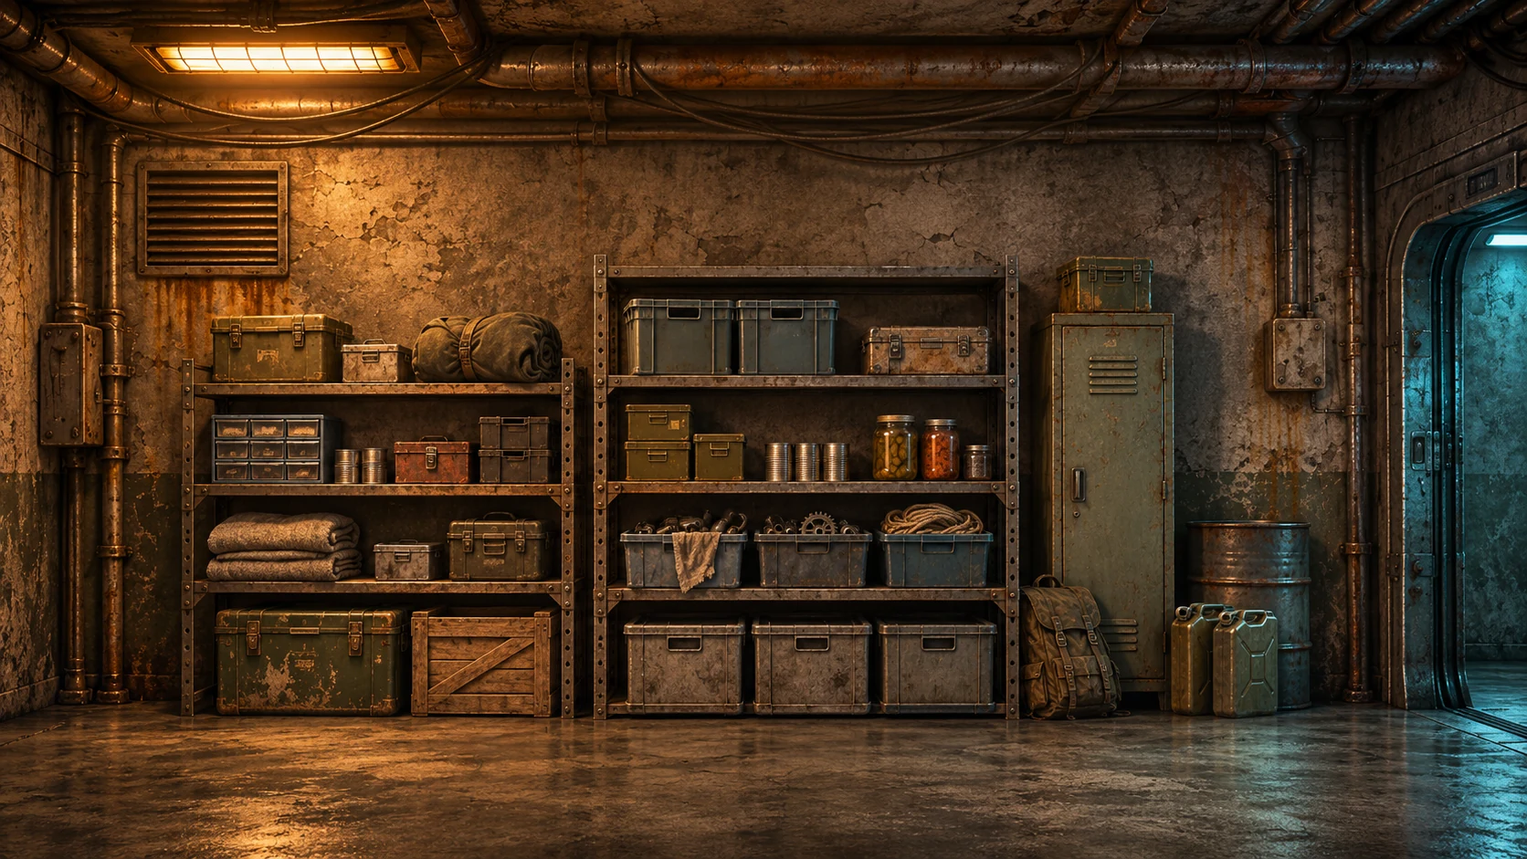
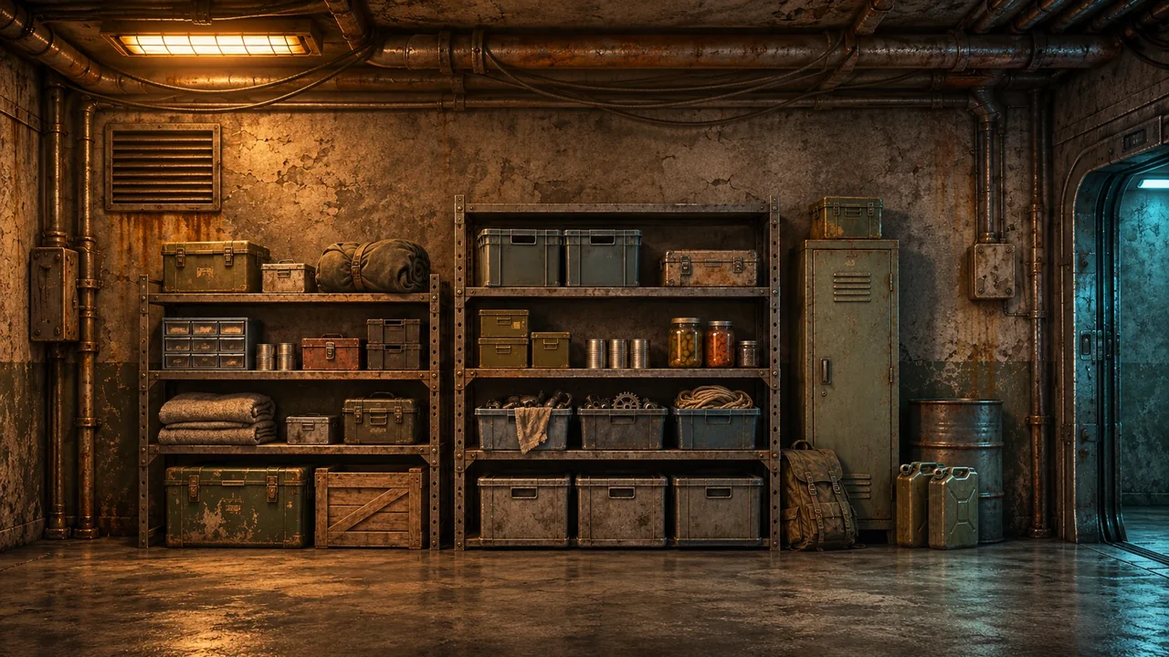
Add files via upload

diff --git a/js/game.js b/js/game.js
@@ -1,4 +1,4 @@
-const APP_VERSION='0.1.52';
+const APP_VERSION='0.1.53';
 
 (()=>{'use strict';const KEY='ashen-save-v010';const attrNames={str:'Siła',dex:'Zręczność',end:'Wytrzymałość',per:'Percepcja',int:'Inteligencja',cha:'Charyzma'};
 const rarities=[{name:'Zwykły',color:'#b8bfc3',weight:58,mult:1},{name:'Ulepszony',color:'#8ac78b',weight:25,mult:1.14},{name:'Rzadki',color:'#77afe5',weight:12,mult:1.32},{name:'Epicki',color:'#c391e4',weight:4,mult:1.58},{name:'Legendarny',color:'#f2bb65',weight:1,mult:1.95}];
@@ -136,7 +136,7 @@ if(!Number.isFinite(state.schematics)||state.schematics<0)state.schematics=0;
 if(typeof state.workshopTestGranted!=='boolean')state.workshopTestGranted=false;
 for(const inst of state.inventory){if(!Number.isInteger(inst.upgrade)||inst.upgrade<0||inst.upgrade>5)inst.upgrade=0;}
 // ASHEN 0.1.24: trwały rozwój modułów schronu, niezależny od dekoracji.
-function roomLevel(id){const n=state.rooms?.[id];return Number.isInteger(n)&&n>=1&&n<=3?n:1}
+function roomLevel(id){const n=state.rooms?.[id];return Number.isInteger(n)&&n>=1&&n<=5?n:1}
 if(!state.rooms||typeof state.rooms!=='object'||Array.isArray(state.rooms))state.rooms={};
 for(const id of ['bedroom','storage','workshop'])state.rooms[id]=roomLevel(id);
 // Testy Kryjówki: zapamiętujemy najwyższy kiedykolwiek opłacony etap.
@@ -144,18 +144,18 @@ for(const id of ['bedroom','storage','workshop'])state.rooms[id]=roomLevel(id);
 if(!state.roomUnlocked||typeof state.roomUnlocked!=='object'||Array.isArray(state.roomUnlocked))state.roomUnlocked={};
 for(const id of ['bedroom','storage','workshop']){
  const purchased=Number(state.roomUnlocked[id]);
- state.roomUnlocked[id]=Math.max(roomLevel(id),Number.isInteger(purchased)?Math.min(3,Math.max(1,purchased)):1);
+ state.roomUnlocked[id]=Math.max(roomLevel(id),Number.isInteger(purchased)?Math.min(5,Math.max(1,purchased)):1);
 }
 
 const ROOM_COSTS={
- bedroom:[null,{level:5,credits:350,scrap:120,mat:'tkanina',qty:35},{level:15,credits:1400,scrap:400,mat:'skora',qty:95}],
- storage:[null,{level:5,credits:300,scrap:160,mat:'czesci',qty:35},{level:15,credits:1350,scrap:460,mat:'tworzywo',qty:100}],
- workshop:[null,{level:8,credits:450,scrap:190,mat:'czesci',qty:45},{level:18,credits:1800,scrap:550,mat:'elektronika',qty:100}]
+ bedroom:[null,{level:5,credits:350,scrap:120,mat:'tkanina',qty:35},{level:15,credits:1400,scrap:400,mat:'skora',qty:95},{level:25,credits:3200,scrap:900,mat:'tkanina',qty:180},{level:35,credits:6500,scrap:1800,mat:'skora',qty:300}],
+ storage:[null,{level:5,credits:300,scrap:160,mat:'czesci',qty:35},{level:15,credits:1350,scrap:460,mat:'tworzywo',qty:100},{level:25,credits:3300,scrap:940,mat:'czesci',qty:180},{level:35,credits:7000,scrap:1900,mat:'tworzywo',qty:320}],
+ workshop:[null,{level:8,credits:450,scrap:190,mat:'czesci',qty:45},{level:18,credits:1800,scrap:550,mat:'elektronika',qty:100},{level:28,credits:4400,scrap:1100,mat:'czesci',qty:200},{level:38,credits:8800,scrap:2250,mat:'elektronika',qty:350}]
 };
 const roomBonusText=id=>({
- bedroom:['Brak premii','+3% doświadczenia z wypraw','+6% doświadczenia z wypraw'],
- storage:['Standardowy odzysk materiałów','+10% materiałów przy rozkładaniu','+20% materiałów przy rozkładaniu'],
- workshop:['Standardowy koszt ulepszeń','−5% kosztów ulepszeń (poza rdzeniami)','−10% kosztów ulepszeń (poza rdzeniami)']
+ bedroom:['Brak premii','+3% doświadczenia z wypraw','+6% doświadczenia z wypraw','+9% doświadczenia z wypraw','+12% doświadczenia z wypraw'],
+ storage:['Standardowy odzysk materiałów','+10% materiałów przy rozkładaniu','+20% materiałów przy rozkładaniu','+30% materiałów przy rozkładaniu','+40% materiałów przy rozkładaniu'],
+ workshop:['Standardowy koszt ulepszeń','−5% kosztów ulepszeń (poza rdzeniami)','−10% kosztów ulepszeń (poza rdzeniami)','−15% kosztów ulepszeń (poza rdzeniami)','−20% kosztów ulepszeń (poza rdzeniami)']
 })[id][roomLevel(id)-1];
 function roomUpgrade(id){
  const current=roomLevel(id),unlocked=state.roomUnlocked[id]||current;
@@ -164,7 +164,7 @@ function roomUpgrade(id){
  if(state.level<cfg.level){message='Rozbudowa wymaga poziomu postaci '+cfg.level+'.';render();return}
  if(state.credits<cfg.credits||state.scrap<cfg.scrap||getStock(cfg.mat)<cfg.qty){message='Brakuje materiałów na rozbudowę pomieszczenia.';render();return}
  const text=`${cfg.credits} kredytów, ${cfg.scrap} złomu, ${cfg.qty} × ${materialLabels[cfg.mat]}`;
- if(!confirm(`Rozbudować ${BUNKER_ROOMS[id].name} do poziomu ${current+1}?\nKoszt: ${text}\nNowa funkcja: ${({bedroom:['','+3% PD','+6% PD'],storage:['','+10% odzysku','+20% odzysku'],workshop:['','−5% kosztów','−10% kosztów']})[id][current]}`))return;
+ if(!confirm(`Rozbudować ${BUNKER_ROOMS[id].name} do poziomu ${current+1}?\nKoszt: ${text}\nNowa funkcja: ${({bedroom:['','+3% PD','+6% PD','+9% PD','+12% PD'],storage:['','+10% odzysku','+20% odzysku','+30% odzysku','+40% odzysku'],workshop:['','−5% kosztów','−10% kosztów','−15% kosztów','−20% kosztów']})[id][current]}`))return;
  if(state.level<cfg.level||state.credits<cfg.credits||state.scrap<cfg.scrap||getStock(cfg.mat)<cfg.qty)return;
  state.credits-=cfg.credits;state.scrap-=cfg.scrap;state.materials[cfg.mat]-=cfg.qty;state.rooms[id]=current+1;state.roomUnlocked[id]=Math.max(state.roomUnlocked[id]||1,current+1);
  message='Rozbudowano pomieszczenie: '+BUNKER_ROOMS[id].name+' · poziom '+roomLevel(id)+'.';save();render();
@@ -179,12 +179,12 @@ function roomDowngrade(id){
  save();render();
 }
 function roomUpgradePanel(id){
- const lvl=roomLevel(id),max=state.roomUnlocked[id]||lvl,cfg=ROOM_COSTS[id]?.[lvl],next=lvl<3?lvl+1:null;
+ const lvl=roomLevel(id),max=state.roomUnlocked[id]||lvl,cfg=ROOM_COSTS[id]?.[lvl],next=lvl<5?lvl+1:null;
  const alreadyOwned=next!==null&&next<=max;
  const cost=cfg?`${cfg.credits} kredytów · ${cfg.scrap} złomu · ${cfg.qty} × ${materialLabels[cfg.mat]}`:'';
  const can=alreadyOwned||(!!cfg&&state.level>=cfg.level&&state.credits>=cfg.credits&&state.scrap>=cfg.scrap&&getStock(cfg.mat)>=cfg.qty);
- const nextBonus=({bedroom:['','+3% PD','+6% PD'],storage:['','+10% materiałów','+20% materiałów'],workshop:['','−5% kosztów','−10% kosztów']})[id][lvl];
- return `<div class="room-upgrade-panel"><div><span class="tag">ROZWÓJ MODUŁU · ${lvl}/3</span><h3>Rozbudowa: ${BUNKER_ROOMS[id].name}</h3><p class="small muted">Aktywny bonus: <strong>${roomBonusText(id)}</strong></p>${next!==null?`<p class="small muted">Poziom ${next}: ${nextBonus}</p><p class="small muted">${alreadyOwned?`Etap ${next} został wcześniej opłacony — przywrócenie jest bezpłatne.`:`Wymagany poziom postaci: ${cfg.level}<br>Koszt: ${cost}`}</p>`:'<p class="good small">Pomieszczenie rozbudowane do maksimum.</p>'}<p class="small muted">Tryb testowy: najwyższy odblokowany poziom ${max}/3. Cofanie nie zwraca materiałów.</p></div><div class="actions ashen-room-test-actions">${lvl>1?`<button data-room-downgrade="${id}" title="Testowe cofnięcie poziomu bez zwrotu surowców">↶ Cofnij poziom (test)</button>`:''}${next!==null?`<button class="${can?'primary':''}" data-room-upgrade="${id}" ${can?'':'disabled'}>${alreadyOwned?'Przywróć poziom '+next:state.level<cfg.level?'Od poziomu '+cfg.level:'Rozbuduj do poziomu '+next}</button>`:'<span class="tag">MAKS. POZIOM</span>'}</div></div>`;
+ const nextBonus=({bedroom:['','+3% PD','+6% PD','+9% PD','+12% PD'],storage:['','+10% materiałów','+20% materiałów','+30% materiałów','+40% materiałów'],workshop:['','−5% kosztów','−10% kosztów','−15% kosztów','−20% kosztów']})[id][lvl];
+ return `<div class="room-upgrade-panel"><div><span class="tag">ROZWÓJ MODUŁU · ${lvl}/5</span><h3>Rozbudowa: ${BUNKER_ROOMS[id].name}</h3><p class="small muted">Aktywny bonus: <strong>${roomBonusText(id)}</strong></p>${next!==null?`<p class="small muted">Poziom ${next}: ${nextBonus}</p><p class="small muted">${alreadyOwned?`Etap ${next} został wcześniej opłacony — przywrócenie jest bezpłatne.`:`Wymagany poziom postaci: ${cfg.level}<br>Koszt: ${cost}`}</p>`:'<p class="good small">Pomieszczenie rozbudowane do maksimum.</p>'}<p class="small muted">Tryb testowy: najwyższy odblokowany poziom ${max}/5. Cofanie nie zwraca materiałów.</p></div><div class="actions ashen-room-test-actions">${lvl>1?`<button data-room-downgrade="${id}" title="Testowe cofnięcie poziomu bez zwrotu surowców">↶ Cofnij poziom (test)</button>`:''}${next!==null?`<button class="${can?'primary':''}" data-room-upgrade="${id}" ${can?'':'disabled'}>${alreadyOwned?'Przywróć poziom '+next:state.level<cfg.level?'Od poziomu '+cfg.level:'Rozbuduj do poziomu '+next}</button>`:'<span class="tag">MAKS. POZIOM</span>'}</div></div>`;
 }
 
 const materialKeys=['scrap','tkanina','skora','tworzywo','elektronika','czesci'];
@@ -1117,7 +1117,7 @@ function workshop(){
  const next=current&&cost?statsOf({...current,upgrade:cost.level}):null;
  const costRow=(name,need,owned)=>`<div class="work-cost ${owned>=need?'work-ok':'work-short'}"><span>${escape(name)}</span><strong>${owned.toLocaleString('pl-PL')} / ${need.toLocaleString('pl-PL')}</strong></div>`;
  const requirements=cost?costRow('Kredyty',cost.credits,state.credits)+Object.entries(cost.materials).map(([key,value])=>costRow(materialLabels[key],value,getStock(key))).join('')+(cost.cores?costRow('Rdzenie technologiczne',cost.cores,state.cores):''):'';
- return section('Warsztat Wędrowca',`${wallet()}<div class="panel section"><div class="tag">ULEPSZENIA BEZ RYZYKA</div><h2 style="margin:8px 0">Warsztat · poziom ${roomLevel('workshop')}</h2><p class="muted">Rozbudowa warsztatu do poziomu 2/3 daje zniżkę 5/10% na materiały i kredyty (rdzenie bez zmian). Każda próba kończy się sukcesem. Możesz ulepszyć dowolny przedmiot wyposażenia do +5, ale kolejne poziomy wymagają większej liczby materiałów i kredytów. Poziomy +3 do +5 zużywają również rdzenie technologiczne. Premie do obrażeń (zarówno minimum, jak i maksimum) lub pancerza wynoszą kolejno +1, +3, +5, +10 i +20; balans sprawdzimy później.</p><p class="small muted">Rdzenie technologiczne (8% szans) i schematy przedwojenne (3%) można znaleźć podczas dalekich wypraw. Schematy są na razie kolekcjonowane — nie są jeszcze zużywane w warsztacie. Pakiet testowy nadal jest dostępny.</p>${state.workshopTestGranted?'<p class="good small">✓ Pakiet testowy został odebrany.</p>':'<button data-action="workshop-test" class="primary">Odbierz jednorazowy pakiet testowy</button>'}</div>
+ return section('Warsztat Wędrowca',`${wallet()}<div class="panel section"><div class="tag">ULEPSZENIA BEZ RYZYKA</div><h2 style="margin:8px 0">Warsztat · poziom ${roomLevel('workshop')}</h2><p class="muted">Rozbudowa warsztatu do poziomu 2–5 daje zniżkę 5/10/15/20% na materiały i kredyty (rdzenie bez zmian). Każda próba kończy się sukcesem. Możesz ulepszyć dowolny przedmiot wyposażenia do +5, ale kolejne poziomy wymagają większej liczby materiałów i kredytów. Poziomy +3 do +5 zużywają również rdzenie technologiczne. Premie do obrażeń (zarówno minimum, jak i maksimum) lub pancerza wynoszą kolejno +1, +3, +5, +10 i +20; balans sprawdzimy później.</p><p class="small muted">Rdzenie technologiczne (8% szans) i schematy przedwojenne (3%) można znaleźć podczas dalekich wypraw. Schematy są na razie kolekcjonowane — nie są jeszcze zużywane w warsztacie. Pakiet testowy nadal jest dostępny.</p>${state.workshopTestGranted?'<p class="good small">✓ Pakiet testowy został odebrany.</p>':'<button data-action="workshop-test" class="primary">Odbierz jednorazowy pakiet testowy</button>'}</div>
  <div class="work-layout"><div class="panel"><h3 style="color:var(--gold);margin-top:0">Przedmioty do ulepszenia (${available.length})</h3><div class="work-list">${available.map(inst=>{const o=statsOf(inst);return `<button class="work-item ${inst.uid===workshopUid?'selected':''}" data-workshop-select="${inst.uid}">${itemIcon(inst,'sm')}<span class="grow"><strong style="color:${rarity(inst).color}">${escape(o.name)}</strong><small>${escape(slotName(o.slot))} · ${escape(statDetails(o))}</small></span>${inst.uid===workshopUid?'◉':''}</button>`}).join('')||'<p class="muted">Brak przedmiotów do ulepszania.</p>'}</div></div><div class="panel"><h3 style="color:var(--gold);margin-top:0">Stanowisko ulepszeń</h3>${current&&cur?`<div class="work-selected">${itemIcon(current)}<div><strong style="color:${rarity(current).color}">${escape(cur.name)}</strong><div class="muted small">Poziom ulepszenia: +${cur.upgrade||0} / +5</div></div></div>${cost?`<div class="work-stats"><div><div class="small muted">Obecnie</div><strong>${weaponSlot(cur.slot)?cur.min+'–'+cur.max+' obrażeń':'Pancerz '+cur.armor}</strong></div><div class="work-arrow">→</div><div><div class="small muted">Po ulepszeniu +${cost.level}</div><strong class="good">${weaponSlot(next.slot)?next.min+'–'+next.max+' obrażeń':'Pancerz '+next.armor}</strong></div></div><div class="work-need"><h4>Koszt ulepszenia</h4>${requirements}</div><p class="small muted">${upgradeCanAfford(cost)?'Masz komplet wymaganych zasobów.': 'Brakuje części zasobów. Zdobądź je przez sprzedaż i rozkładanie niepotrzebnego wyposażenia.'}</p><button class="primary" data-workshop-upgrade="${current.uid}" ${upgradeCanAfford(cost)?'':'disabled'}>Ulepsz do +${cost.level} (100% sukcesu)</button>`:'<div class="notice">Osiągnięto maksymalny poziom +5.</div>'}`:'<p class="muted">Wybierz przedmiot po lewej stronie.</p>'}</div></div>`)
 }
 function applyUpgrade(uid){
@@ -1293,7 +1293,7 @@ function hideoutSvgThing(slot,id){if(id==='none')return '';
  if(id==='trophy')content=`<path d="M-8 -82 h16 v50 h-16z" fill="#7c8b83"/><path d="M-43 -59 Q-23 -80 0 -62 Q23 -80 43 -59 Q51 -28 23 -17 L12 5 H-12 L-23 -17 Q-51 -28 -43 -59Z" fill="#695d4d" stroke="#b8a17d" stroke-width="5"/><path d="M-13 14 H13 L20 57 H-20 Z" fill="#726452"/><path d="M-33 65 H33" stroke="#b8a17d" stroke-width="9"/>`;
  return content?`<g transform="translate(${slot==='left'?218:slot==='center'?488:slot==='right'?759:480} ${slot==='wall'?174:405})">${content}</g>`:'';
 }
-const bedroomBackgroundByLevel=lvl=>`./assets/bunker/rooms/${lvl>=3?'bedroom-level3.webp':lvl===2?'bedroom-level2.webp':'bedroom-level1.webp'}`;
+const bedroomBackgroundByLevel=lvl=>`./assets/bunker/rooms/bedroom-level${Math.max(1,Math.min(5,lvl))}.webp`;
 function hideoutScene(h){
  const lvl=roomLevel('bedroom');
  const roomLabel=lvl===1?'Poziom 1 — surowa sypialnia':lvl===2?'Poziom 2 — odnowiona sypialnia':'Poziom 3 — wyposażona sypialnia';
@@ -1314,12 +1314,12 @@ function bunkerRoomSvg(type,h,compact=false){
  const storage=type==='storage';
  // Grafiki pomieszczeń są pełnymi ilustracjami 16:9, nie wyciętymi fragmentami planszy.
  // Ten sam asset działa w miniaturze przekroju bazy i dużym widoku pomieszczenia.
- const background=storage?'./assets/bunker/rooms/storage-level1.webp':'./assets/bunker/rooms/workshop-level1.webp';
+ const background=`./assets/bunker/rooms/${type}-level${Math.max(1,Math.min(5,roomLevel(type)))}.webp`;
  const label=storage?'MAGAZYN':'WARSZTAT';
  const level=roomLevel(type);
  return `<svg viewBox="0 0 960 540" role="img" aria-label="${label} w Schronie 17, poziom ${level}" xmlns="http://www.w3.org/2000/svg"><rect width="960" height="540" fill="#151b20"/><image href="${background}" x="0" y="0" width="960" height="540" preserveAspectRatio="xMidYMid meet"/><rect x="0" y="0" width="960" height="60" fill="#091015" opacity=".66"/><text x="22" y="37" fill="#e6c18b" font-size="24" font-family="Arial,sans-serif" font-weight="700" letter-spacing="2">${label} · POZIOM ${level}</text></svg>`;
 }
-function bunkerRoomsOverview(h){return `<div class="bunker-overview"><div class="hideout-title"><div><div class="tag">PRZEKRÓJ BAZY · POZIOM -1</div><h3>Schron 17</h3></div><span class="hideout-pill">3 czynne pomieszczenia</span></div><div class="bunker-cutaway">${Object.entries(BUNKER_ROOMS).map(([id,r])=>`<button type="button" class="bunker-module ${activeBunkerRoom===id?'is-selected':''}" data-bunker-room="${id}" aria-pressed="${activeBunkerRoom===id}">${bunkerRoomSvg(id,h,true)}<strong>${r.name}</strong><span class="bunker-state">Poziom ${roomLevel(id)}/3 · ${id==='bedroom'?'Pokój Wędrowca':id==='storage'?'Zasoby':'Ulepszenia'}</span></button>`).join('')}</div><div class="bunker-floor"></div><div class="bunker-future"><span>Przyszły moduł</span><span>Przyszły moduł</span><span>Przyszły moduł</span></div><p class="hideout-story">Dotknij lub kliknij pomieszczenie, aby obejrzeć je z bliska. Pola na kolejnym poziomie pokazują kierunek przyszłej rozbudowy.</p></div>`}
+function bunkerRoomsOverview(h){return `<div class="bunker-overview"><div class="hideout-title"><div><div class="tag">PRZEKRÓJ BAZY · POZIOM -1</div><h3>Schron 17</h3></div><span class="hideout-pill">3 czynne pomieszczenia</span></div><div class="bunker-cutaway">${Object.entries(BUNKER_ROOMS).map(([id,r])=>`<button type="button" class="bunker-module ${activeBunkerRoom===id?'is-selected':''}" data-bunker-room="${id}" aria-pressed="${activeBunkerRoom===id}">${bunkerRoomSvg(id,h,true)}<strong>${r.name}</strong><span class="bunker-state">Poziom ${roomLevel(id)}/5 · ${id==='bedroom'?'Pokój Wędrowca':id==='storage'?'Zasoby':'Ulepszenia'}</span></button>`).join('')}</div><div class="bunker-floor"></div><div class="bunker-future"><span>Przyszły moduł</span><span>Przyszły moduł</span><span>Przyszły moduł</span></div><p class="hideout-story">Dotknij lub kliknij pomieszczenie, aby obejrzeć je z bliska. Pola na kolejnym poziomie pokazują kierunek przyszłej rozbudowy.</p></div>`}
 const BACKUP_KEY=KEY+'-backup-before-import';
 function exportSave(data=state,label='ashen-zapis'){
  const stamp=new Date().toISOString().slice(0,19).replace(/[:T]/g,'-');
@@ -1421,7 +1421,7 @@ function restoreSaveBackup(){
   activateImportedSave(restored,'Przywrócono kopię zapisu');
  }catch(err){message='Nie udało się przywrócić kopii: '+err.message;render();}
 }
-function bunker(){const h=hideoutState(),r=BUNKER_ROOMS[activeBunkerRoom]||BUNKER_ROOMS.bedroom;return section('Kryjówka',`<div class="hideout-screen"><div class="hideout-title"><div><div class="tag">SEKTOR 17 · SCHRON MODUŁOWY</div><h3>Twoja baza</h3></div><div class="hideout-legend"><span class="hideout-pill">Pomieszczenia mają własne funkcje</span><span class="hideout-pill">Testowe cofanie poziomów</span></div></div>${bunkerRoomsOverview(h)}<div class="bunker-focused"><div class="bunker-focused-head"><div><span class="tag">WYBRANE POMIESZCZENIE</span><h3>${r.name}</h3></div><span class="hideout-pill">Poziom pomieszczenia: ${roomLevel(activeBunkerRoom)} / 3</span></div>${bunkerRoomSvg(activeBunkerRoom,h)}<p class="bunker-room-description">${r.desc}</p><div class="bunker-meta"><span>${roomBonusText(activeBunkerRoom)}</span><span>${r.unlock}</span></div>${roomUpgradePanel(activeBunkerRoom)}${activeBunkerRoom==='bedroom'?`<p class="hideout-hint">Wyposażenie sypialni jest częścią gotowego obrazu pomieszczenia. Rozbuduj lub testowo cofnij poziom, aby zobaczyć różnicę między scenami.</p>`:activeBunkerRoom==='storage'?`<div class="bunker-links"><button class="primary" data-page="storage">Otwórz magazyn surowców</button></div>`:`<div class="bunker-links"><button class="primary" data-page="workshop">Przejdź do ulepszania ekwipunku</button></div>`}</div><div class="hideout-hint">Rozbudowa trzech pomieszczeń daje pierwsze bonusy do wypraw, odzysku i ulepszeń. Grafiki zmieniają się wraz z etapami rozwoju; magazyn i warsztat mają na razie po jednej ilustracji. Nowe typy pokoi i misje odblokowywane przez bazę pojawią się w kolejnych aktualizacjach.</div><div class="actions" style="margin-top:14px"><button data-page="workshop">Warsztat</button><button data-page="storage">Magazyn</button></div></div><div class="panel section" style="margin-top:14px"><h3 style="color:var(--gold)">Zapis i bezpieczeństwo</h3><p class="small muted">Eksport zapisuje postać i ekwipunek do pliku JSON. Import zastępuje obecny stan gry. Przed importem automatycznie zachowamy poprzedni zapis w pamięci tej przeglądarki.</p><div class="actions"><button data-action="export">Pobierz kopię zapisu JSON</button><button class="primary" data-action="import">Importuj zapis JSON</button><button data-action="restore-backup">Przywróć poprzedni zapis</button><button data-action="reset">Nowa gra / reset</button></div><p class="small muted">Po imporcie gra odświeży stronę. Pliki z zapisami przechowuj u siebie, nie w publicznym repozytorium GitHub.</p></div>`) }
+function bunker(){const h=hideoutState(),r=BUNKER_ROOMS[activeBunkerRoom]||BUNKER_ROOMS.bedroom;return section('Kryjówka',`<div class="hideout-screen"><div class="hideout-title"><div><div class="tag">SEKTOR 17 · SCHRON MODUŁOWY</div><h3>Twoja baza</h3></div><div class="hideout-legend"><span class="hideout-pill">Pomieszczenia mają własne funkcje</span><span class="hideout-pill">Testowe cofanie poziomów</span></div></div>${bunkerRoomsOverview(h)}<div class="bunker-focused"><div class="bunker-focused-head"><div><span class="tag">WYBRANE POMIESZCZENIE</span><h3>${r.name}</h3></div><span class="hideout-pill">Poziom pomieszczenia: ${roomLevel(activeBunkerRoom)} / 5</span></div>${bunkerRoomSvg(activeBunkerRoom,h)}<p class="bunker-room-description">${r.desc}</p><div class="bunker-meta"><span>${roomBonusText(activeBunkerRoom)}</span><span>${r.unlock}</span></div>${roomUpgradePanel(activeBunkerRoom)}${activeBunkerRoom==='bedroom'?`<p class="hideout-hint">Wyposażenie sypialni jest częścią gotowego obrazu pomieszczenia. Rozbuduj lub testowo cofnij poziom, aby zobaczyć różnicę między scenami.</p>`:activeBunkerRoom==='storage'?`<div class="bunker-links"><button class="primary" data-page="storage">Otwórz magazyn surowców</button></div>`:`<div class="bunker-links"><button class="primary" data-page="workshop">Przejdź do ulepszania ekwipunku</button></div>`}</div><div class="hideout-hint">Rozbudowa trzech pomieszczeń daje pierwsze bonusy do wypraw, odzysku i ulepszeń. Każde z trzech pomieszczeń ma pięć gotowych scen; wraz z rozbudową zmieniają się także ściany, oświetlenie i wyposażenie. Nowe typy pokoi i misje odblokowywane przez bazę pojawią się w kolejnych aktualizacjach.</div><div class="actions" style="margin-top:14px"><button data-page="workshop">Warsztat</button><button data-page="storage">Magazyn</button></div></div><div class="panel section" style="margin-top:14px"><h3 style="color:var(--gold)">Zapis i bezpieczeństwo</h3><p class="small muted">Eksport zapisuje postać i ekwipunek do pliku JSON. Import zastępuje obecny stan gry. Przed importem automatycznie zachowamy poprzedni zapis w pamięci tej przeglądarki.</p><div class="actions"><button data-action="export">Pobierz kopię zapisu JSON</button><button class="primary" data-action="import">Importuj zapis JSON</button><button data-action="restore-backup">Przywróć poprzedni zapis</button><button data-action="reset">Nowa gra / reset</button></div><p class="small muted">Po imporcie gra odświeży stronę. Pliki z zapisami przechowuj u siebie, nie w publicznym repozytorium GitHub.</p></div>`) }
 
 const origins={scout:{title:'Zwiadowca',desc:'Szybki i spostrzegawczy. +2 Zręczności, +1 Percepcji.',bonus:{dex:2,per:1}},fighter:{title:'Najemnik',desc:'Wytrzymały wojownik. +2 Siły, +1 Wytrzymałości.',bonus:{str:2,end:1}},tech:{title:'Mechanik',desc:'Specjalista od technologii. +2 Inteligencji, +1 Percepcji.',bonus:{int:2,per:1}}};
 function creation(){return `<div class="hero"><div class="sub">SCHRON 17 · POCZĄTEK HISTORII</div><h1>Stwórz Wędrowca</h1><p class="muted">Wybierz pochodzenie postaci. To bonus początkowy, a nie zamknięta klasa — później rozwijasz dowolne atrybuty.</p></div><div class="panel"><label for="hero-name">Imię Wędrowca</label><input class="input" id="hero-name" maxlength="24" value="${escape(state.name)}" placeholder="Wpisz imię" style="margin:9px 0 18px"><h3 style="color:var(--gold)">Pochodzenie</h3><div class="grid">${Object.entries(origins).map(([id,o])=>`<label class="tile" style="cursor:pointer;border-color:${state.origin===id?'var(--gold)':'var(--line)'}"><input type="radio" name="origin" value="${id}" ${state.origin===id?'checked':''}><img class="origin-thumb" src="${characterPortrait(id)}" alt="Portret: ${o.title}"><h3>${o.title}</h3><p class="small muted">${o.desc}</p></label>`).join('')}</div><h3 style="color:var(--gold)">Ręka dominująca</h3><p class="small muted">Wybór nie zmienia siły postaci. Dominująca ręka atakuje z mocą 100%, druga z mocą 80%. Możesz wybrać swoją naturalną stronę.</p><div class="actions"><label class="tile"><input type="radio" name="dominantHand" value="right" ${state.dominantHand==='right'?'checked':''}> Prawa</label><label class="tile"><input type="radio" name="dominantHand" value="left" ${state.dominantHand==='left'?'checked':''}> Lewa</label></div><p class="small muted">Po rozpoczęciu otrzymasz 5 dodatkowych punktów do rozdania i podstawowy ekwipunek.</p><div class="actions" style="margin-top:10px"><button class="primary" data-action="create">Rozpocznij przygodę →</button><button data-action="import">Wczytaj istniejącą postać (JSON)</button><button data-action="restore-backup">Przywróć kopię zapasową</button></div></div>`}

diff --git a/index.html b/index.html
@@ -1,1 +1,1 @@
-<!doctype html><html lang="pl"><head><meta charset="utf-8"><meta name="viewport" content="width=device-width,initial-scale=1"><title>ASHEN — Kroniki Upadku v0.1.52</title><link rel="stylesheet" href="./css/style.css?v=0.1.52"></head><body><div id="app"></div><script src="./js/game.js?v=0.1.52" defer></script></body></html>
+<!doctype html><html lang="pl"><head><meta charset="utf-8"><meta name="viewport" content="width=device-width,initial-scale=1"><title>ASHEN — Kroniki Upadku v0.1.53</title><link rel="stylesheet" href="./css/style.css?v=0.1.53"></head><body><div id="app"></div><script src="./js/game.js?v=0.1.53" defer></script></body></html>

diff --git a/README.md b/README.md
@@ -1,3 +1,14 @@
+# ASHEN v0.1.53 — Kryjówka: 15 gotowych scen
+
+- Sypialnia, magazyn i warsztat mają po pięć etapów rozwoju (15 scen).
+- Nowe obrazy są w jednym formacie 1280 × 720 (16:9), równo wykadrowane. Zmieniono wyłącznie kadry: bez przemalowywania wnętrz.
+- W nowych ilustracjach magazynu i warsztatu nie ma już dużych pustych połaci podłogi.
+- Ściany, oświetlenie i wyposażenie widocznie ewoluują z poziomem każdego pomieszczenia.
+- Koszty poziomów 4 i 5 są wstępne, do testów balansu. Bonusy rozbudowy: sypialnia +3% PD na poziom, magazyn +10% odzysku, warsztat −5% kosztu ulepszeń na poziom.
+- Cofanie poziomów nadal działa testowo bez zwrotu materiałów; powrót do wcześniej opłaconego poziomu jest darmowy.
+- Stare zapisy pozostają zachowane.
+- Aktualizacja podmienia pliki gry i 15 obrazów w assets/bunker/rooms/.
+
 # ASHEN v0.1.48 — Anomalie i wydarzenia Rezonansu
 
 - Bliskie wyprawy: 18% szansy na zjawisko, średnie: 32%, dalekie: 50%. Brak anomalii pozostaje możliwy.
